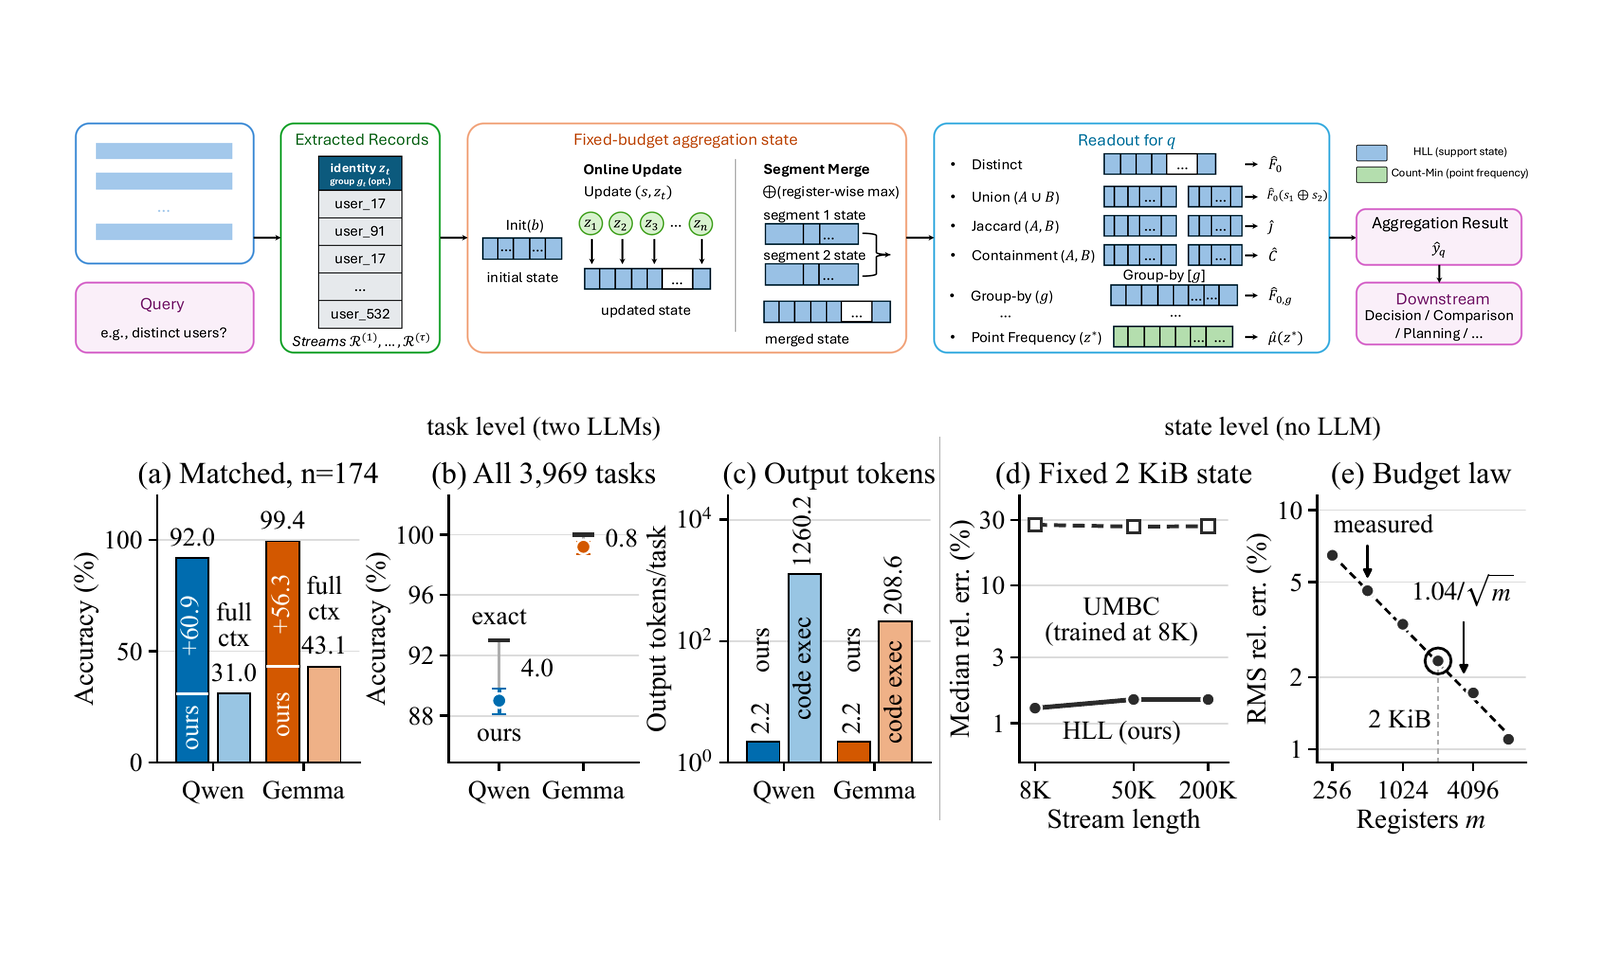
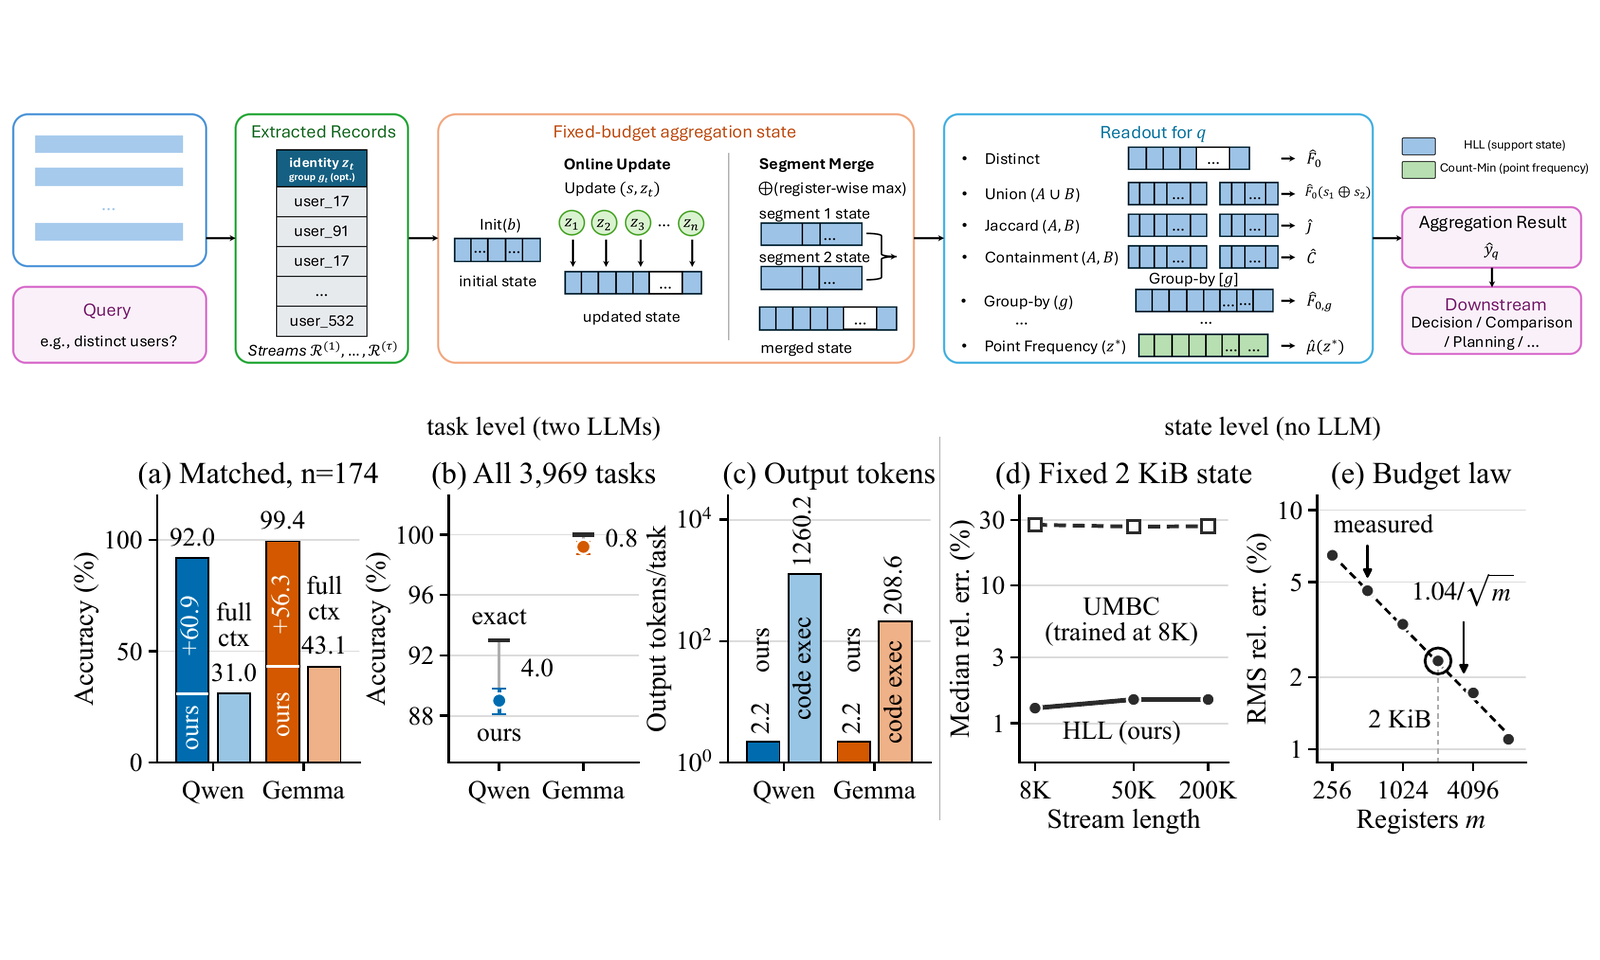
Enlarge SketchOps workflow thumbnail

Changed region(s): [[0.0, 0.0938, 1.0, 0.375]]

diff --git a/index.html b/index.html
@@ -108,7 +108,7 @@
             </div>
             <p class="stack publication-keywords" data-i18n="publications.sketchops.keywords">SketchOps · HyperLogLog · Long-context reasoning · Fixed-budget aggregation</p>
             <figure class="paper-thumbnail paper-thumbnail-stack">
-              <img src="./assets/sketchops-figures.png" alt="SketchOps workflow and main experimental results" />
+              <img src="./assets/sketchops-figures.png?v=2" alt="SketchOps workflow and main experimental results" />
             </figure>
           </article>
           <article class="publication">
